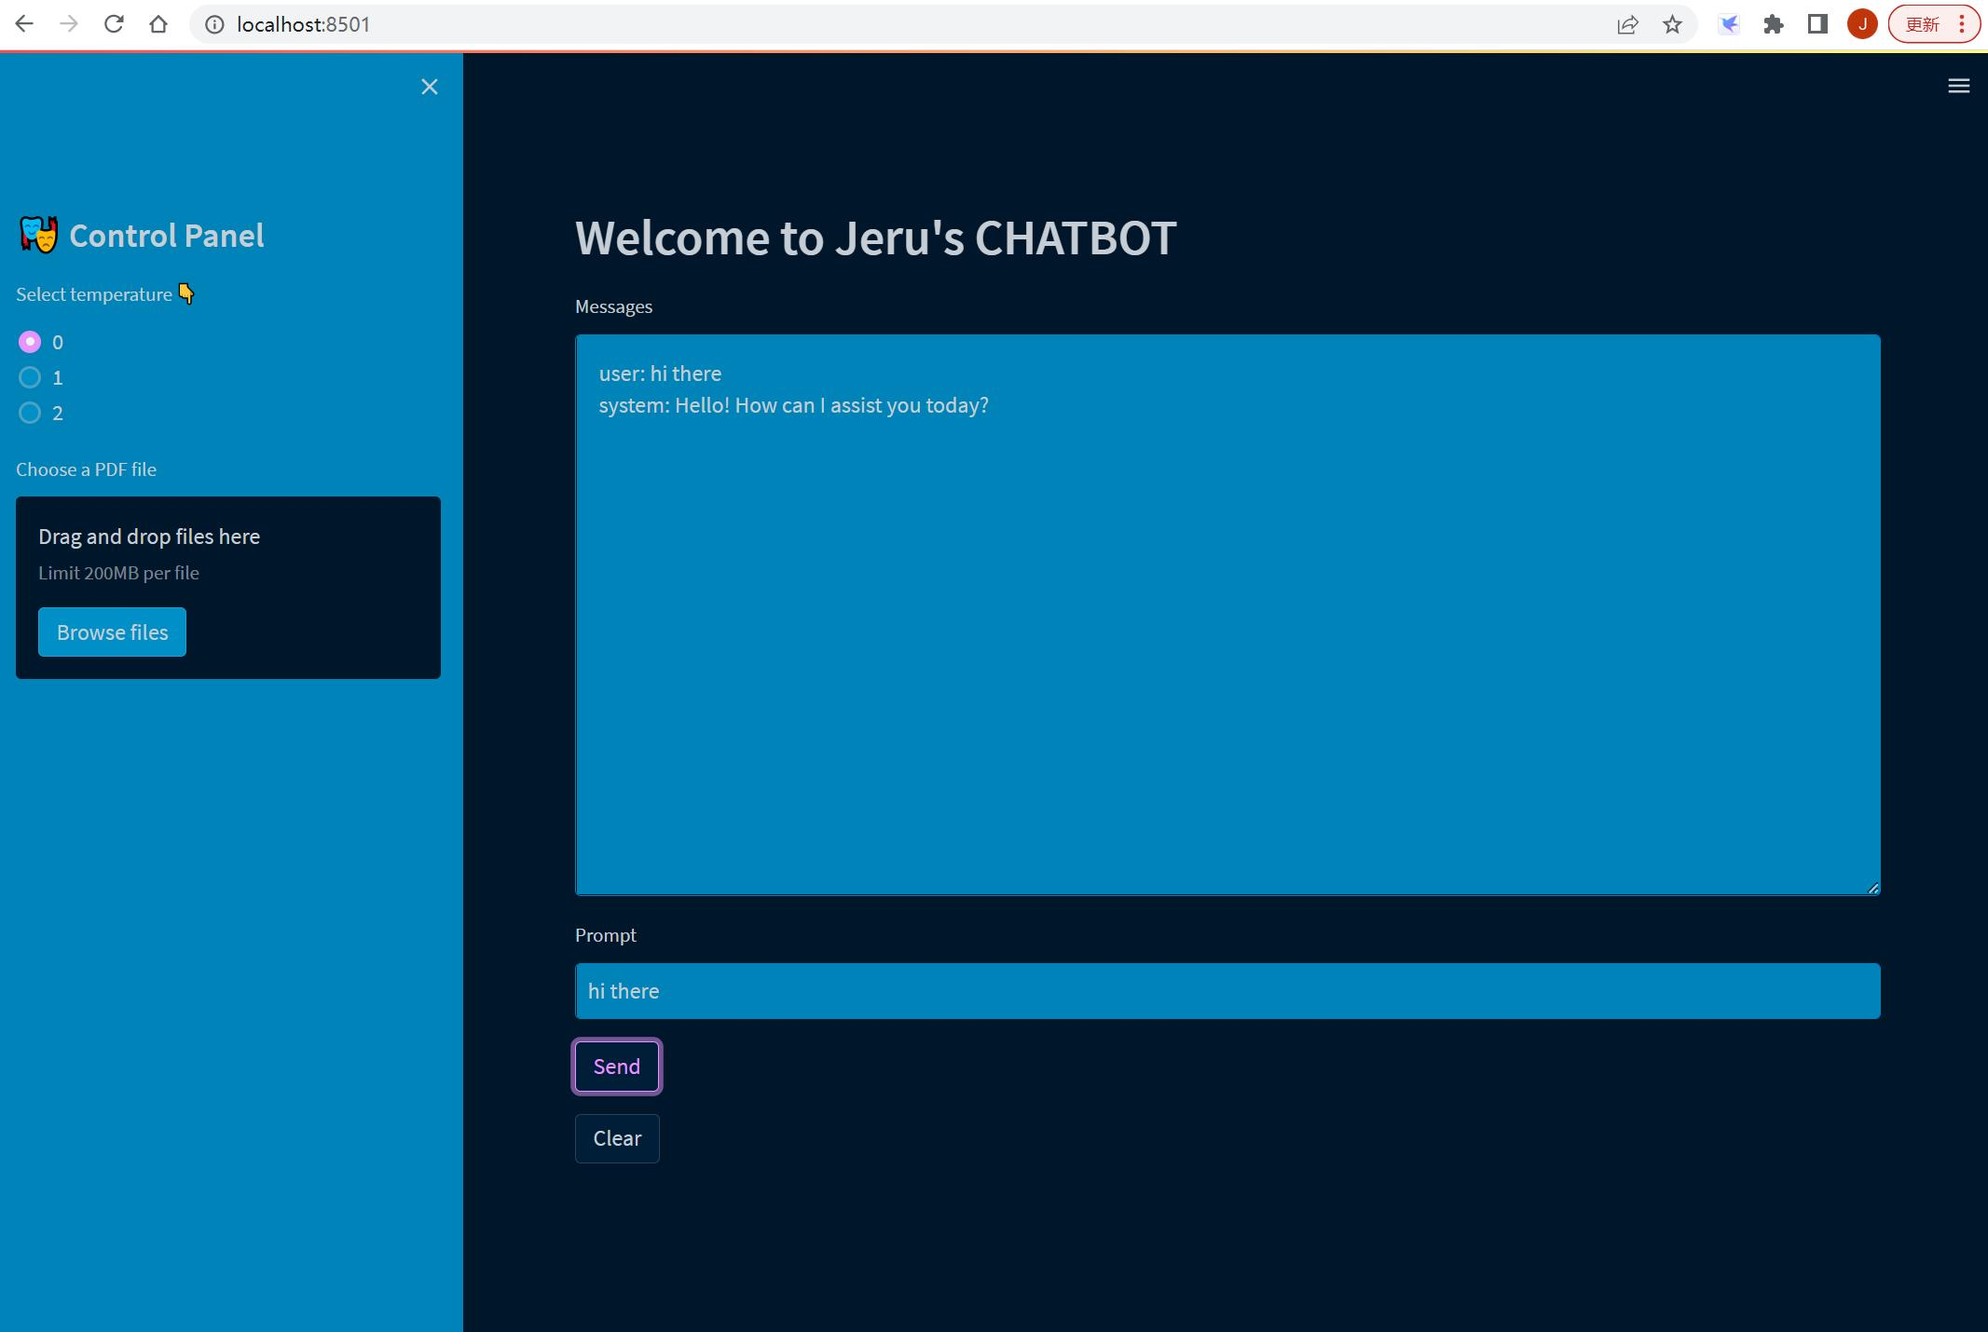
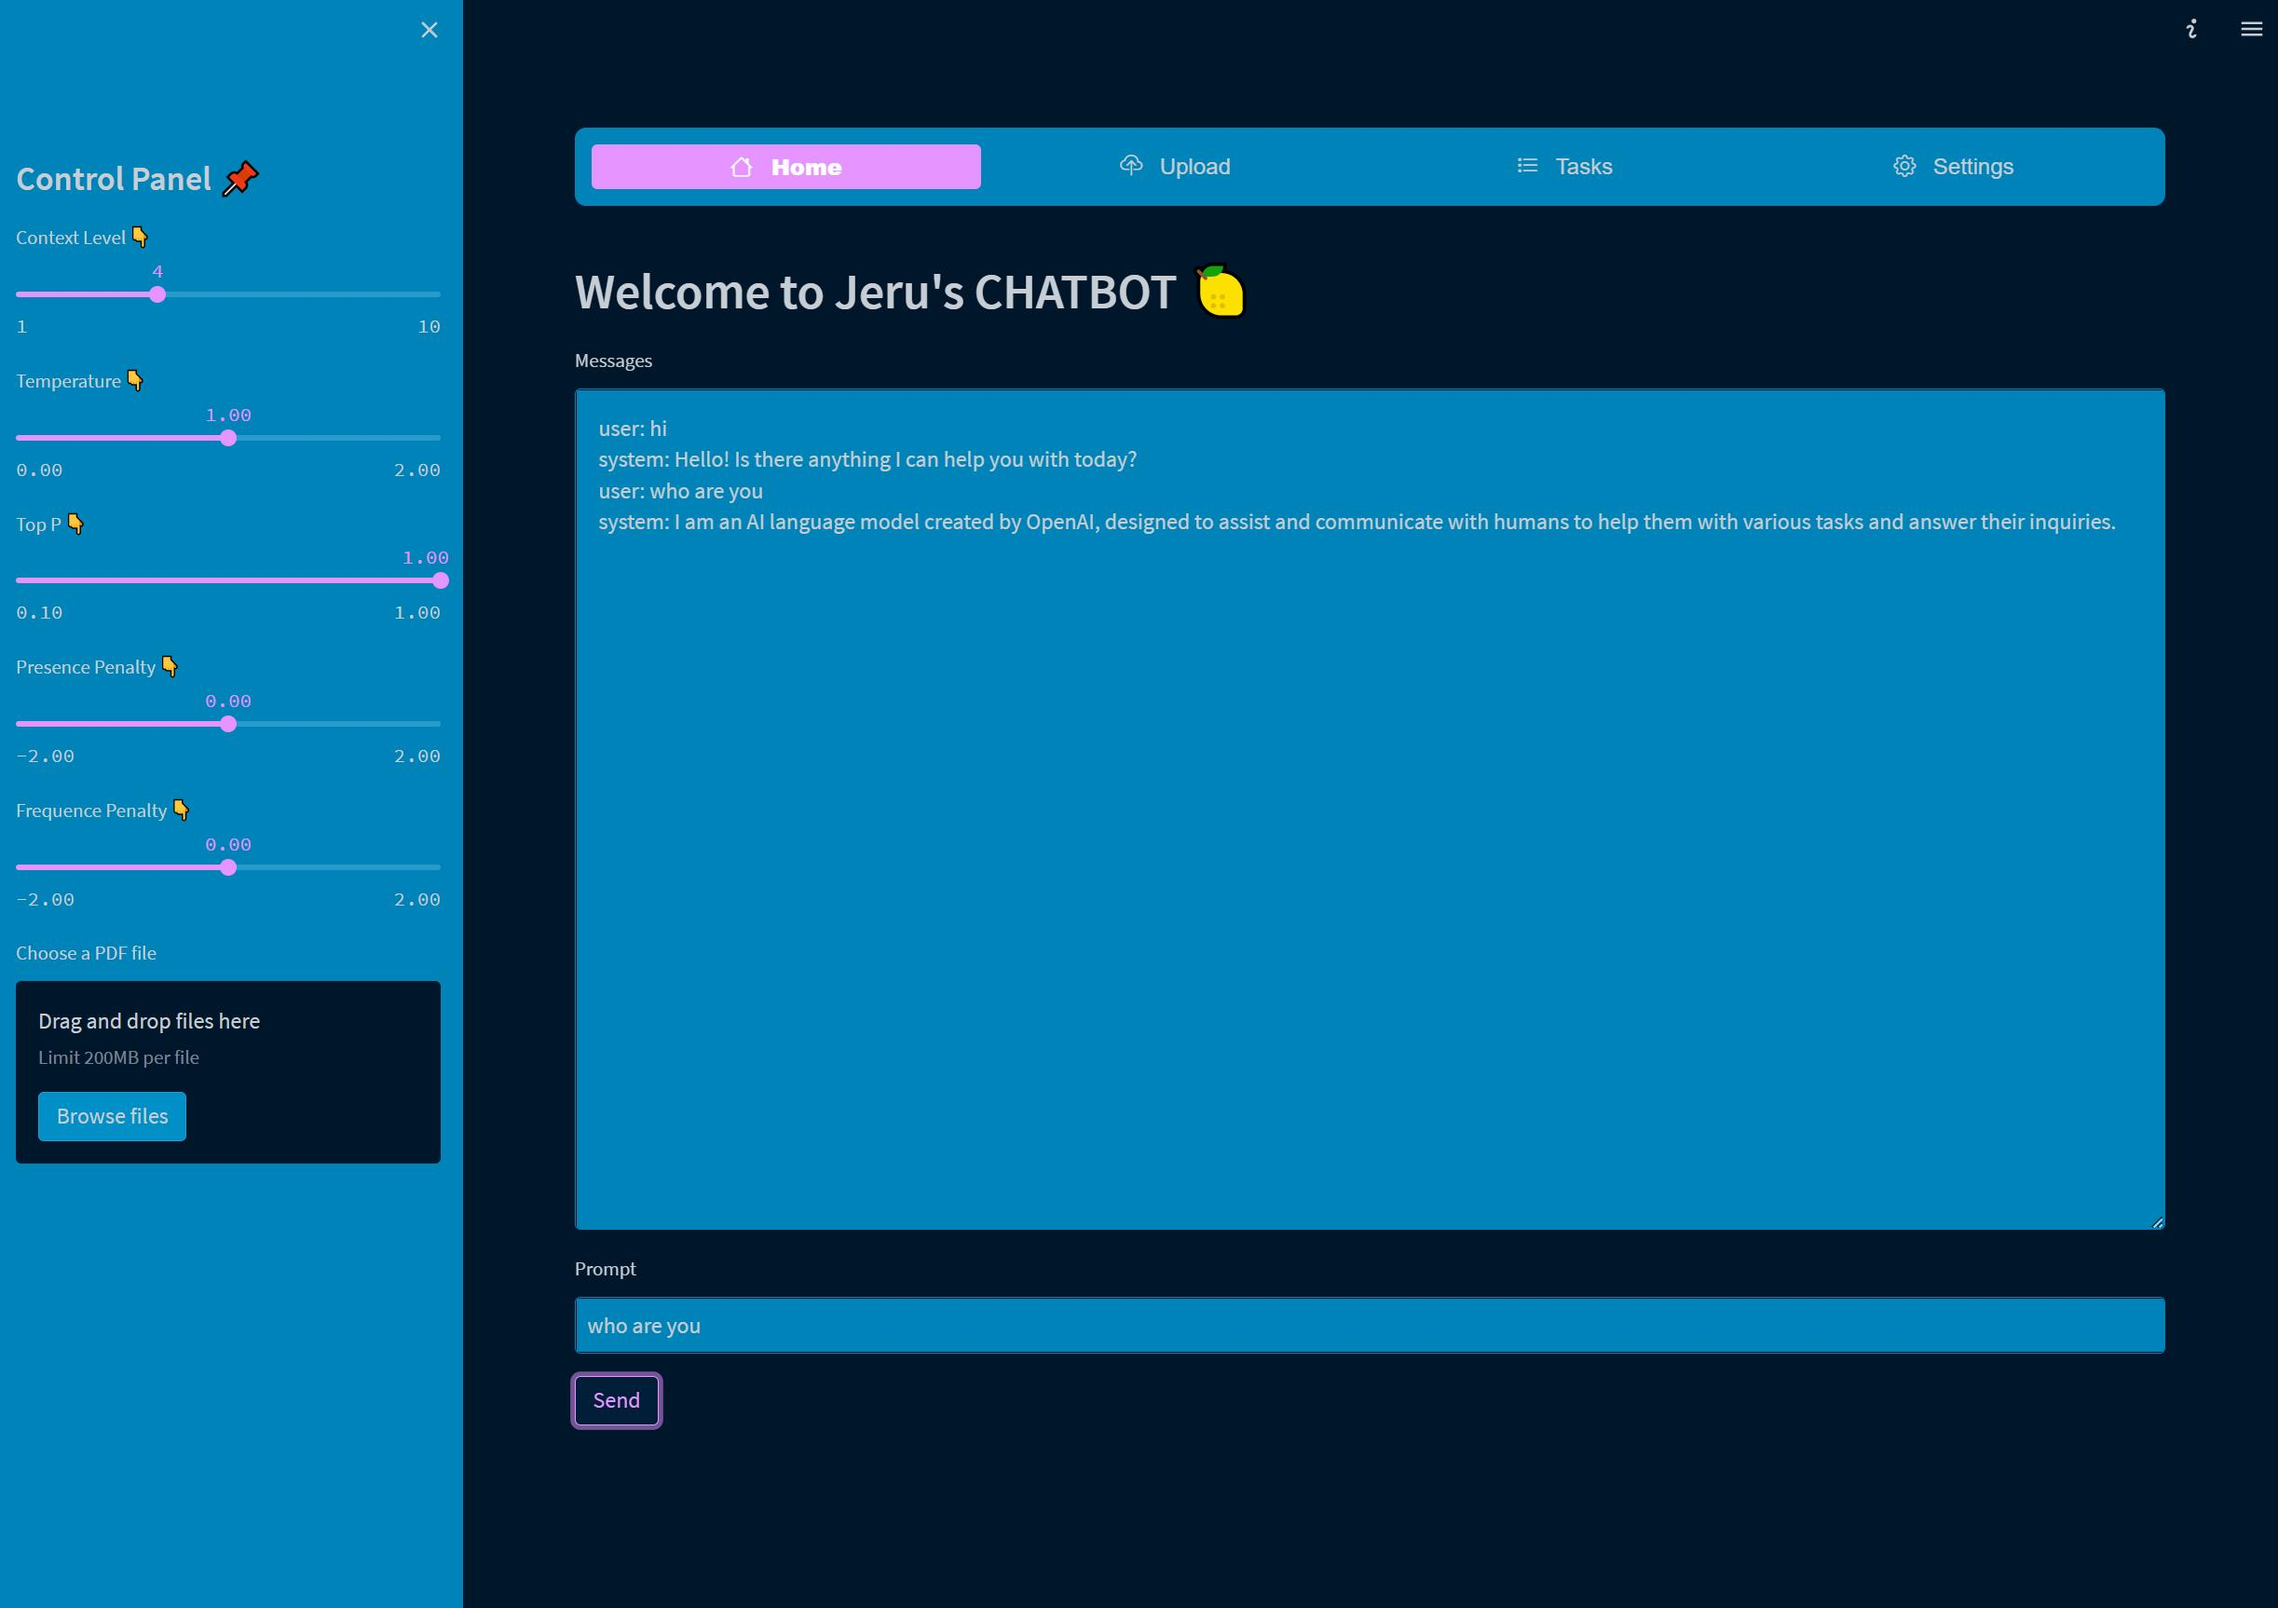
Bug fixing

Changed region(s): [[0.0, 0.0, 1.0, 1.0]]

diff --git a/app.py b/app.py
@@ -3,12 +3,11 @@ import toml
 import streamlit as st
 from streamlit_option_menu import option_menu
 import os
-import boto3
 
 st.set_page_config(page_title='ChatGPT Assistant', layout='wide', page_icon='🍋')
 
 with open("secrets.toml", "r") as f:
-    config = toml.load(f)
+	config = toml.load(f)
 
 openai.api_key = config["OPENAI_KEY"]
 os.environ["http_proxy"]="http://127.0.0.1:7890"
@@ -40,18 +39,34 @@ with st.sidebar:
 		bytes_data = uploaded_file.read()
 		st.write("filename:", uploaded_file.name)
 		st.write(bytes_data)
+		
+if 'past' not in st.session_state:
+	st.session_state['past'] = []
+
+if "generated" not in st.session_state:
+    st.session_state["generated"] = BASE_PROMPT
+	
+st.session_state["key"] = 0
+
+def parse_data(data):
+	role = data['role']
+	content = data['content']
+	output = f"{role}: {content}"
+	return output
 
 def show_messages(text):
-    messages_str = [
-        f"{_['role']}: {_['content']}" for _ in st.session_state["messages"][1:]
-    ]
-    text.text_area("Messages", value=str("\n".join(messages_str)), height=600)
-	
-	
+	content = []
+	for i in range(1, len(st.session_state['generated']), 1):
+		past_message = parse_data(st.session_state["past"][i-1])
+		generated_message = parse_data(st.session_state["generated"][i])
+		content.append(past_message)
+		content.append(generated_message)
+	print('use widget gen:',st.session_state["generated"])
+	print('use widget past:',st.session_state["past"])
+	st.session_state["key"] += 1
+	text.text_area("Messages", value=str("\n".join(content)), key=st.session_state["key"], height=600)
 
-if "messages" not in st.session_state:
-    st.session_state["messages"] = BASE_PROMPT
-
+	
 st.header("Welcome to Jeru's CHATBOT 🍋")
 
 text = st.empty()
@@ -60,17 +75,12 @@ show_messages(text)
 prompt = st.text_input("Prompt", placeholder="Enter your message here...")
 
 if st.button("Send"):
-    with st.spinner("Generating response..."):
-        st.session_state["messages"] += [{"role": "user", "content": prompt}]
-        response = openai.ChatCompletion.create(
-            model="gpt-3.5-turbo", messages=st.session_state["messages"]
-        )
-        message_response = response["choices"][0]["message"]["content"]
-        st.session_state["messages"] += [
-            {"role": "system", "content": message_response}
-        ]
-        show_messages(text)
-
-if st.button("Clear"):
-    st.session_state["messages"] = BASE_PROMPT
-    show_messages(text)
+	with st.spinner("Generating response..."):
+	
+		st.session_state["past"].append({"role": "user", "content": prompt})
+		#TODO：to add context
+		response = openai.ChatCompletion.create(model="gpt-3.5-turbo", messages=[{"role": "user", "content": prompt}])
+		message_response = response["choices"][0]["message"]["content"]
+		st.session_state["generated"].append({"role": "system", "content": message_response})
+	
+		show_messages(text)
